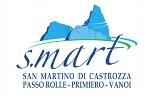
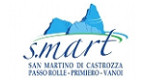
changed size sponsors and h4 size

Changed region(s): [[0.1067, 0.025, 0.9333, 0.95], [0.56, 0.35, 0.5867, 0.375]]

diff --git a/src/components/Homepage.css b/src/components/Homepage.css
@@ -34,12 +34,22 @@ h4 {
 
 .patrocinioDiv {
   width: 30%;
-  margin-bottom: 3%;
+  padding-bottom: 15px;
+}
+
+.patrocinioDiv img {
+  padding:3px;
+  border: 0.3px solid #007ebf;
 }
 
 .sponsorDiv {
-  margin-bottom: 3%;
+  padding-bottom: 15px;
   width: 30%;
+}
+
+.sponsorDiv img {
+  padding:3px;
+  border: 0.3px solid #007ebf;
 }
 
 .patrocinio {

diff --git a/src/components/Sidebar.css b/src/components/Sidebar.css
@@ -10,7 +10,12 @@
 }
 
 .singleSponsor {
-  margin-bottom: 15px;
+  padding-bottom: 15px;
+}
+
+.singleSponsor img {
+  padding:10px;
+  border: 0.3px solid #007ebf;
 }
 
 h5 {
@@ -58,5 +63,10 @@ h6 {
   .mainSponsor {
     width: 30%;
     padding: 3%;
+  }
+
+  .mainSponsorMobile img {
+    border: 0.3px solid #007ebf;
+    margin: 3px;
   }
 }

diff --git a/src/components/OtherPages.css b/src/components/OtherPages.css
@@ -165,7 +165,7 @@ li {
     text-align: center; 
   }
 
-  .didascalia, h4 {
+  .didascalia {
     font-size: 1.5rem;
   }
 }
